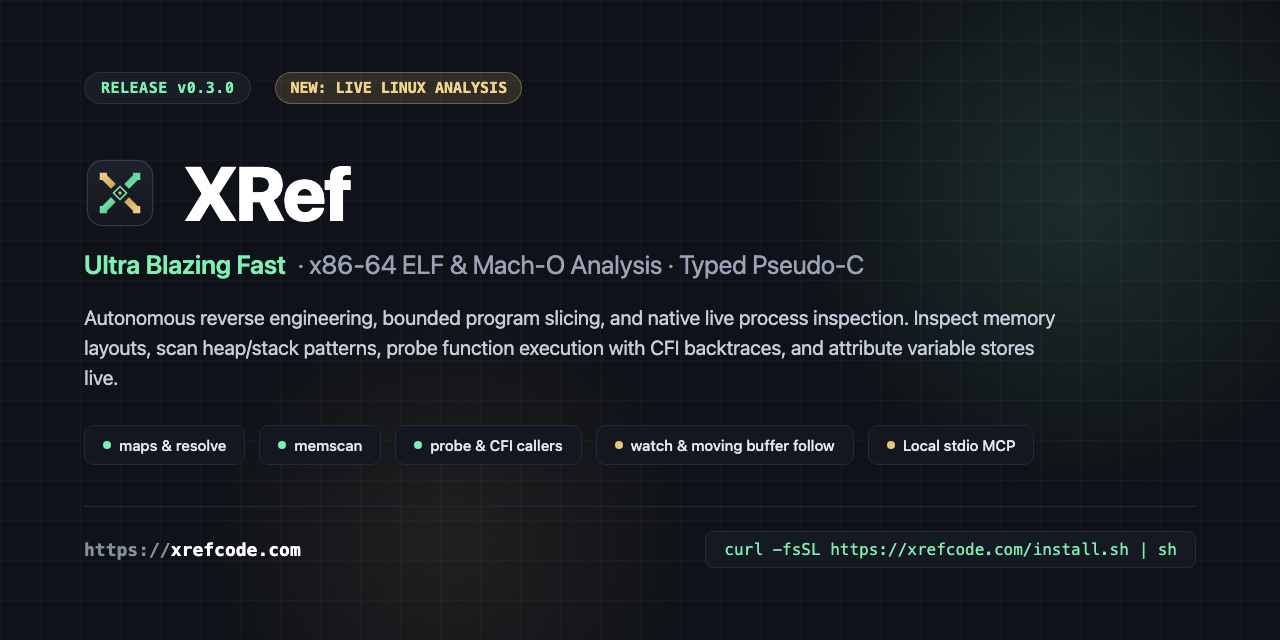
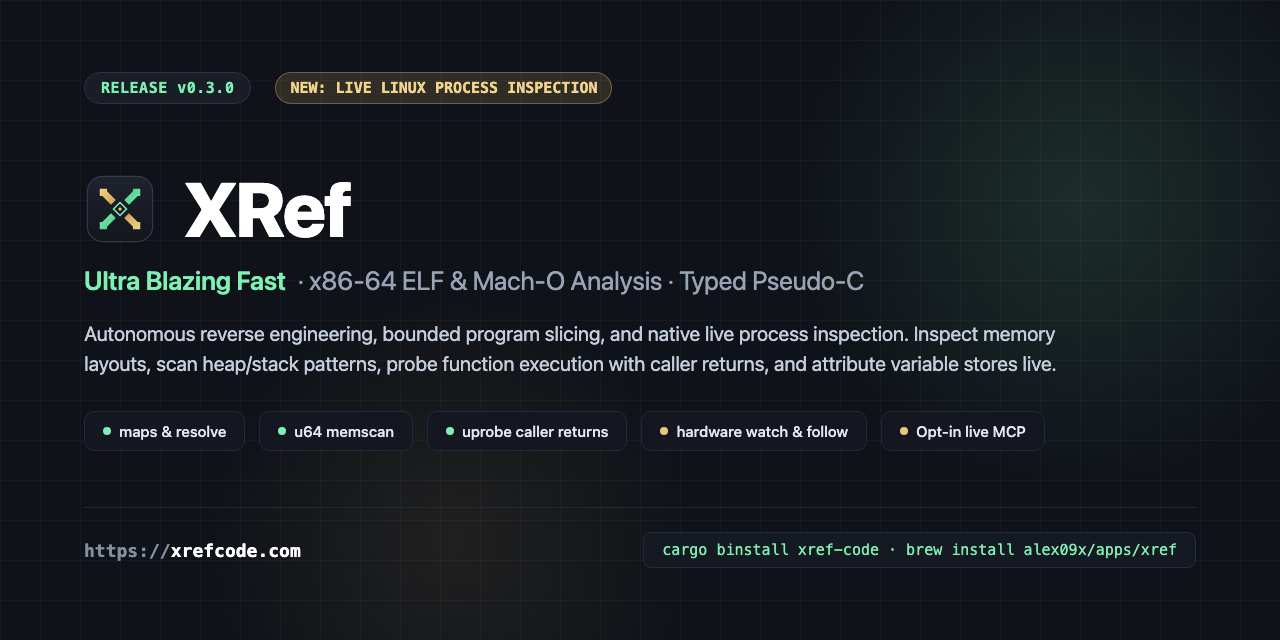
fix(release): address review findings on live capabilities, walkthrough status, OG, and translations

diff --git a/docs/live-walkthrough.html b/docs/live-walkthrough.html
@@ -39,10 +39,10 @@
     </header>
     <main class="wrap" id="top">
       <section class="hero">
-        <div class="eyebrow">New on main · not in v0.2.0 · Linux x86-64</div>
+        <div class="eyebrow">Available in v0.3.0 · not in v0.2.0 · Linux x86-64</div>
         <h1>Live Analysis: from a running process to the code that writes its memory.</h1>
         <p class="hero-sub">One stripped program, examined from outside while it runs: a value we know, where it sits in memory, which static function owns it, how often that code runs and who calls it, which instruction writes the field, and the same field after its buffer moves. Every command below ran exactly as shown, and the output under it is what that run printed.</p>
-        <div class="lw-status"><span class="pill pill-demo">UNRELEASED</span> <code>xref live</code> and the opt-in <code>xref_live</code> MCP tool are on <code>main</code> and will ship in the next release. The published v0.2.0 binaries do not contain them. Linux x86-64 only.</div>
+        <div class="lw-status"><span class="pill pill-demo">v0.3.0</span> <code>xref live</code> and the opt-in <code>xref_live</code> MCP tool are available starting with <code>v0.3.0</code>. Earlier published v0.2.0 binaries do not contain them. Linux x86-64 only.</div>
         <ol class="lw-toc">
           <li><a href="#step-target">Start a stripped program and give it some state</a></li>
           <li><a href="#step-maps">Confirm the process and the binary</a></li>

diff --git a/scripts/live_walkthrough/render.py b/scripts/live_walkthrough/render.py
@@ -103,10 +103,10 @@ def slug(title):
 def render_html(doc, secs):
     pre = lambda cls, text: f'<pre class="code-view {cls}">{html.escape(text)}</pre>'  # noqa: E731
     body = [HEAD, TOPBAR, '    <main class="wrap" id="top">', '      <section class="hero">',
-            '        <div class="eyebrow">New on main · not in v0.2.0 · Linux x86-64</div>',
+            '        <div class="eyebrow">Available in v0.3.0 · not in v0.2.0 · Linux x86-64</div>',
             "        <h1>Live Analysis: from a running process to the code that writes its memory.</h1>",
             f'        <p class="hero-sub">{inline_html(INTRO)}</p>',
-            f'        <div class="lw-status"><span class="pill pill-demo">UNRELEASED</span> {inline_html(STATUS)}</div>',
+            f'        <div class="lw-status"><span class="pill pill-demo">v0.3.0</span> {inline_html(STATUS)}</div>',
             '        <ol class="lw-toc">']
     body += [f'          <li><a href="#step-{s["id"]}">{inline_html(s["title"])}</a></li>' for s in secs]
     body += ["        </ol>", '        <div class="prov-box"><strong>Provenance.</strong><ul class="lw-prov">']

diff --git a/scripts/live_walkthrough/page.py b/scripts/live_walkthrough/page.py
@@ -7,8 +7,8 @@
 """Static text shared by the Markdown and HTML renderings of the walkthrough."""
 
 STATUS = (
-    "`xref live` and the opt-in `xref_live` MCP tool are on `main` and will ship in the next release. "
-    "The published v0.2.0 binaries do not contain them. Linux x86-64 only."
+    "`xref live` and the opt-in `xref_live` MCP tool are available starting with `v0.3.0`. "
+    "Earlier published v0.2.0 binaries do not contain them. Linux x86-64 only."
 )
 
 INTRO = (

diff --git a/readme/README.ru.md b/readme/README.ru.md
@@ -44,7 +44,7 @@
 
 Классические инструменты реверс-инжиниринга ориентированы на работу одного аналитика-человека, готового перед первым запросом ждать минуты, пока вся программа импортируется в базу данных. С бинарными файлами Rust, из которых удалены символы (stripped), ситуация ещё сложнее: символы удалены, строки представлены не завершающимися нулём срезами `(ptr, len)` в пулах `.rodata`, а паники при проверке границ массива дробят циклы на холодные рёбра графа управления, превращая вывод наивных декомпиляторов в нечитаемое спагетти из `goto`.
 
-**XRef Code** (`xref`) создан для быстрого итеративного анализа как исследователями, так и автономными ИИ-агентами:
+**XRef** (`xref`) создан для быстрого итеративного анализа как исследователями, так и автономными ИИ-агентами:
 
 - **Без предварительного индекса и устаревающего кэша.** При каждом запуске файл ELF отображается в память, точные диапазоны функций извлекаются из записей раскрутки `.eh_frame` (с автоматическим резервным вычислением интервалов), а сканирование функций выполняется параллельно через `rayon`.
 - **Живой анализ:** Только для Linux x86-64, один целевой исполняемый файл на сессию. Инструкции записи и вызывающие функции внутри разделяемых библиотек помечаются как находящиеся вне целевого исполняемого файла без указания статической функции или записанного значения. `probe` и `watch` требуют привилегированного доступа perf и добавляют прерывания (traps) в наблюдаемый процесс.
@@ -380,7 +380,7 @@ flowchart LR
 <a name="scope--limitations"></a>
 ## Область применения и ограничения
 
-- **Поддерживаемый вход:** исполняемые файлы и библиотеки `x86-64` ELF (`ET_EXEC`, `ET_DYN`). Начиная с v0.3.0 поддерживаются тонкие little-endian x86-64 Mach-O: executables, dylibs и bundles с DWARF unwind; см. [входы Mach-O](https://github.com/alex09x/xref/blob/main/docs/macho.md). Опубликованная v0.1.0 поддерживает только ELF. ARM64, PE, fat/universal и файлы только с compact unwind не поддерживаются.
+- **Поддерживаемый вход:** исполняемые файлы и библиотеки `x86-64` ELF (`ET_EXEC`, `ET_DYN`). Начиная с v0.2.0 поддерживаются тонкие little-endian x86-64 Mach-O: executables, dylibs и bundles с DWARF unwind; см. [входы Mach-O](https://github.com/alex09x/xref/blob/main/docs/macho.md). Опубликованная v0.1.0 поддерживает только ELF. ARM64, PE, fat/universal и файлы только с compact unwind не поддерживаются.
 - **Определение границ функций:** точные границы функций извлекаются из таблиц раскрутки стека `.eh_frame` (генерируются по умолчанию компиляторами `rustc`, `clang` и `gcc` под `x86-64` даже при запуске `strip --strip-all`), с переходом на эвристический расчёт интервалов по промежуткам и адресам вызовов при их отсутствии. Для бинарников, из которых секция `.eh_frame` удалена принудительно (`strip -R .eh_frame`), границы определяются эвристически.
 - **Статический псевдо-C и вывод смещений:** сигнатуры параметров (`arg_*`), выведенные типы указателей/целых чисел (`const void *`, `usize`, `unk64` и т. д.) и подсказки смещений флага `--fields` (`->f_<off>`) представляют собой консервативные статические реконструкции на основе использования в машинном коде, а не отладочные типы DWARF. Несмоделированные инструкции SIMD и системные команды сохраняются как явные комментарии на ассемблере вида `/* 0xaddr: ... */`, а не отбрасываются — обязательно перепроверяйте критически важные инварианты с помощью `xref asm`.
 
@@ -417,7 +417,7 @@ cargo test --workspace --locked
 }
 ```
 
-- Alexander Panasenko (2026). *XRef Code — Ultra Blazing Fast x86-64 ELF and Mach-O Analysis, Pseudo-C and Local MCP* (v0.3.0). Zenodo. https://doi.org/10.5281/zenodo.23902824 ([concept DOI: 10.5281/zenodo.23878789](https://doi.org/10.5281/zenodo.23878789))
+- Alexander Panasenko (2026). *XRef Code — Ultra Blazing Fast x86-64 ELF and Mach-O Analysis, Pseudo-C and Local MCP* (v0.2.0). Zenodo. https://doi.org/10.5281/zenodo.23902824 ([concept DOI: 10.5281/zenodo.23878789](https://doi.org/10.5281/zenodo.23878789))
 
 ---
 

diff --git a/docs/releases/v0.3.0.md b/docs/releases/v0.3.0.md
@@ -9,32 +9,36 @@ XRef.**
 XRef v0.3.0 introduces native live process inspection for running Linux x86-64
 targets, connecting runtime process state directly with static image analysis:
 
-- **L1 Maps & Resolve (`xref live --pid PID maps`, `xref live --pid PID resolve`)**:
-  Inspect live `/proc/PID/maps` memory layout, locate the main executable, heap,
-  thread stacks, VDSO/VVAR, and dynamically loaded modules. Resolve any runtime
-  virtual address to its backing file, mapped segment offset, static image VA,
-  and containing function with typed demangled symbol names.
-- **L2 Memory Scanner (`xref live --pid PID memscan`)**:
-  Scan readable process mappings for exact ASCII strings, hex byte sequences, or
-  pointer-aligned word references. Matches report containing memory region,
-  protection flags, offset, and dereferenced pointers.
-- **L3 Execution Probes (`xref live --pid PID probe`)**:
-  Attach lightweight execution breakpoints via `ptrace(2)` to target functions or
-  VAs. Capture execution hits with CPU register state (`rax`, `rdi`, `rsi`,
-  `rsp`, `rip`, flags) and exact DWARF/CFI-driven caller backtraces without
-  disturbing runtime execution.
-- **L4 Memory Watchpoints (`xref live --pid PID watch`)**:
-  Hardware-assisted and software-monitored variable watchpoints. Intercept writes
-  to target memory locations, compute before/after values, and attribute stores
-  to specific candidate instructions within the main executable. With `--follow`,
-  re-bind watchpoints automatically when target pointers or moving buffers shift
-  dynamically across allocations.
-- **Opt-in MCP Live Tooling**:
-  `xref_live` tool exposed via local stdio MCP server (`xref -b BIN mcp`) with
-  explicit safety defaults, bounded timeouts, and strict privilege checks.
+- **L1 Maps, Resolve & Memory Scanner**:
+  - `xref live maps --pid PID` (`xref -b APP live maps --pid PID`):
+    Inspect `/proc/<pid>/maps` layout, determine verified executable match, PIE slide,
+    heap, thread stacks, VDSO/VVAR, and mapped shared libraries.
+  - `xref live resolve --pid PID <LIVE_VA>`:
+    Translate runtime addresses to static image VA, containing function, and file
+    offset (for the selected main executable). Addresses inside shared libraries
+    are identified as outside the target executable.
+  - `xref live memscan --pid PID <U64_HEX_PATTERN>`:
+    Scan readable, writable private process memory (`rw-p`) for little-endian
+    `u64` values and classify neighbouring pointers (pointers to code, heap,
+    stack, or null).
+- **L2 Execution Probes (`xref live probe --pid PID <FN_OR_VA> [--callers]`)**:
+  Attach bounded uprobes via Linux perf events (or tracefs fallback; requires
+  `CAP_PERFMON` or root) to target functions or VAs. Reports hit counts, register
+  snapshots (`rax`, `rdi`, `rsi`, `rsp`, `rip`, flags), and one-hop caller
+  return-address evidence with explicit coverage limits. Does not pause or attach
+  via `ptrace` for breakpoints.
+- **L3 Hardware Watchpoints (`xref live watch --pid PID <ADDR> [--follow <BASE_ADDR>]`)**:
+  Monitor memory writes using x86-64 hardware debug registers (`DR0`–`DR3`).
+  Reports candidate writer instructions within the target executable, confidence
+  score, and before/after written values. With `--follow`, tracks buffer pointer
+  indirection across reallocations.
+- **L4 Opt-in MCP Live Tooling (`xref -b APP mcp --allow-live-pid PID`)**:
+  Exposes the `xref_live` tool over local stdio MCP only when explicitly pinned
+  to a verified PID via `--allow-live-pid`. Standard `xref -b APP mcp` remains
+  strictly read-only (`xref_query` only).
 - **Interactive Walkthrough**:
-  Detailed recorded walkthrough with verbatim Linux terminal sessions published
-  at [https://xrefcode.com/live-walkthrough](https://xrefcode.com/live-walkthrough).
+  Step-by-step recorded walkthrough on a stripped Linux fixture published at
+  [https://xrefcode.com/live-walkthrough](https://xrefcode.com/live-walkthrough).
 
 ## Public Product Branding
 
@@ -55,9 +59,9 @@ brew update && brew upgrade alex09x/apps/xref
 ```
 
 Release archives support Linux x86-64 (glibc >= 2.34) and macOS Apple Silicon.
-Live process inspection is currently supported on Linux x86-64 kernels with
-`ptrace` / `/proc` access permissions. Inspected processes continue normal
-execution after probes or watchpoints complete.
+Live process inspection is supported on Linux x86-64 kernels with `/proc` read
+access (for L1) and privileged perf access (root or `CAP_PERFMON` for L2/L3 probes
+and watchpoints). Inspected processes continue normal execution.
 
 ## Documentation and Provenance
 

diff --git a/readme/README.fr.md b/readme/README.fr.md
@@ -44,7 +44,7 @@ Analyse de binaires sans index préalable en Rust pur et sûr (`#![forbid(unsafe
 
 Les suites d'ingénierie inverse traditionnelles présupposent un analyste interactif disposé à attendre plusieurs minutes pour l'importation préalable d'une base de données du programme complet avant de poser la première question. Les binaires Rust dépouillés (*stripped*) aggravent cela : les symboles disparaissent, les chaînes deviennent des segments `(ptr, len)` non terminés par un NUL dans les zones `.rodata`, et les paniques de contrôle de limites fragmentent les boucles en embranchements froids qui transforment les décompilateurs naïfs en un enchevêtrement illisible de `goto`.
 
-**XRef Code** (`xref`) est conçu pour une investigation itérative rapide, aussi bien pour les ingénieurs en rétro-ingénierie que pour les agents d'IA autonomes :
+**XRef** (`xref`) est conçu pour une investigation itérative rapide, aussi bien pour les ingénieurs en rétro-ingénierie que pour les agents d'IA autonomes :
 
 - **Sans index préalable ni cache obsolète.** Chaque exécution mappe l'image ELF en mémoire, extrait les plages exactes de fonctions depuis les enregistrements de déroulement `.eh_frame` (avec repli automatique sur les intervalles) et scanne les fonctions en parallèle grâce à `rayon`.
 - **Analyse en direct :** Uniquement Linux x86-64, un seul exécutable cible par session. Les instructions d'écriture et les appelants au sein de bibliothèques partagées sont signalés comme extérieurs à l'exécutable cible sans fonction statique ni valeur écrite. `probe` et `watch` nécessitent un accès privilégié à perf et introduisent des interruptions (traps) dans le processus observé.
@@ -380,7 +380,7 @@ Temps d'exécution réels en ligne de commande pour une passe unique rapportés 
 <a name="scope--limitations"></a>
 ## Portée et limites
 
-- **Entrées prises en charge :** binaires et objets partagés ELF `x86-64` (`ET_EXEC`, `ET_DYN`). Depuis v0.3.0, xref accepte aussi les exécutables, dylibs et bundles Mach-O thin x86-64 little-endian avec DWARF unwind ; voir [entrées Mach-O](https://github.com/alex09x/xref/blob/main/docs/macho.md). La v0.1.0 publiée reste limitée à ELF. ARM64, PE, fat/universal et les entrées uniquement compact unwind ne sont pas pris en charge.
+- **Entrées prises en charge :** binaires et objets partagés ELF `x86-64` (`ET_EXEC`, `ET_DYN`). Depuis v0.2.0, xref accepte aussi les exécutables, dylibs et bundles Mach-O thin x86-64 little-endian avec DWARF unwind ; voir [entrées Mach-O](https://github.com/alex09x/xref/blob/main/docs/macho.md). La v0.1.0 publiée reste limitée à ELF. ARM64, PE, fat/universal et les entrées uniquement compact unwind ne sont pas pris en charge.
 - **Détection des délimitations de fonctions :** Les plages exactes de fonctions proviennent des tables de déroulement `.eh_frame` (émises par défaut par `rustc`, `clang` et `gcc` sur `x86-64` même après `strip --strip-all`), avec un mécanisme de secours par intervalle/cible d'appel en cas d'absence d'entrées de déroulement. Les binaires dépourvus de `.eh_frame` (`strip -R .eh_frame`) reposent sur des frontières d'intervalles heuristiques.
 - **Pseudo-C statique et inférence de décalages :** Les signatures de paramètres (`arg_*`), les types inférés de pointeurs/entiers (`const void *`, `usize`, `unk64`, etc.) et les indices de décalage de `--fields` (`->f_<off>`) sont des reconstitutions statiques prudentes déduites de l'utilisation en code machine, et non des types sources DWARF. Les instructions SIMD/système non modélisées sont conservées en ligne sous forme de commentaires d'assemblage explicites `/* 0xaddr: ... */` au lieu d'être ignorées silencieusement — contre-vérifiez toujours les invariants critiques avec `xref asm`.
 
@@ -417,7 +417,7 @@ L'entrée ci-dessous correspond au dernier instantané archivé (`v0.2.0`, publi
 }
 ```
 
-- Alexander Panasenko (2026). *XRef Code — Ultra Blazing Fast x86-64 ELF and Mach-O Analysis, Pseudo-C and Local MCP* (v0.3.0). Zenodo. https://doi.org/10.5281/zenodo.23902824 ([concept DOI: 10.5281/zenodo.23878789](https://doi.org/10.5281/zenodo.23878789))
+- Alexander Panasenko (2026). *XRef Code — Ultra Blazing Fast x86-64 ELF and Mach-O Analysis, Pseudo-C and Local MCP* (v0.2.0). Zenodo. https://doi.org/10.5281/zenodo.23902824 ([concept DOI: 10.5281/zenodo.23878789](https://doi.org/10.5281/zenodo.23878789))
 
 ---
 

diff --git a/readme/README.es.md b/readme/README.es.md
@@ -44,7 +44,7 @@ Análisis de binarios sin indexación previa en Rust seguro puro (`#![forbid(uns
 
 Las suites tradicionales de ingeniería inversa asumen la presencia de un analista interactivo dispuesto a esperar minutos a que se complete una importación previa de la base de datos de todo el programa antes de hacer la primera pregunta. Los binarios de Rust sin símbolos (*stripped*) empeoran esto: los símbolos desaparecen, las cadenas son fragmentos `(ptr, len)` no terminados en NUL alojados en bloques de `.rodata`, y los pánicos por comprobación de límites fracturan los bucles en ramificaciones frías que convierten a los descompiladores ingenuos en un espagueti ilegible de `goto`.
 
-**XRef Code** (`xref`) está diseñado para una investigación iterativa y rápida, tanto por especialistas en ingeniería inversa como por agentes autónomos de IA:
+**XRef** (`xref`) está diseñado para una investigación iterativa y rápida, tanto por especialistas en ingeniería inversa como por agentes autónomos de IA:
 
 - **Sin índice previo y sin cachés obsoletas.** Cada invocación mapea la imagen ELF en memoria, extrae los rangos exactos de funciones a partir de los registros de desenrollado de pila `.eh_frame` (con repliegue automático basado en tramos) y escanea las funciones en paralelo mediante `rayon`.
 - **Análisis en vivo:** Solo Linux x86-64, un ejecutable objetivo por sesión. Los escritores y llamadores dentro de bibliotecas compartidas se reportan como externos al ejecutable objetivo sin función estática ni valor escrito. `probe` y `watch` requieren acceso privilegiado perf y agregan trampas al proceso observado.
@@ -380,7 +380,7 @@ Tiempos transcurridos reales de ejecución en CLI en una sola pasada reportados 
 <a name="scope--limitations"></a>
 ## Alcance y limitaciones
 
-- **Entrada compatible:** binarios y objetos compartidos ELF `x86-64` (`ET_EXEC`, `ET_DYN`). A partir de v0.3.0, xref también admite ejecutables, dylibs y bundles Mach-O thin x86-64 little-endian con DWARF unwind; véase [entradas Mach-O](https://github.com/alex09x/xref/blob/main/docs/macho.md). La v0.1.0 publicada solo admite ELF. ARM64, PE, fat/universal y entradas solo con compact unwind no están admitidos.
+- **Entrada compatible:** binarios y objetos compartidos ELF `x86-64` (`ET_EXEC`, `ET_DYN`). A partir de v0.2.0, xref también admite ejecutables, dylibs y bundles Mach-O thin x86-64 little-endian con DWARF unwind; véase [entradas Mach-O](https://github.com/alex09x/xref/blob/main/docs/macho.md). La v0.1.0 publicada solo admite ELF. ARM64, PE, fat/universal y entradas solo con compact unwind no están admitidos.
 - **Detección de límites de funciones:** Los rangos exactos de funciones se derivan de las tablas de desenrollado `.eh_frame` (emitidas por defecto por `rustc`, `clang` y `gcc` en `x86-64` incluso tras `strip --strip-all`), recurriendo a un mecanismo de reserva por huecos/destinos de llamadas cuando no hay entradas de desenrollado. Los binarios desprovistos de `.eh_frame` (`strip -R .eh_frame`) dependen de límites heurísticos basados en intervalos.
 - **Pseudo-C estático e inferencia de desplazamientos:** Las firmas de parámetros (`arg_*`), los tipos de punteros/enteros inferidos (`const void *`, `usize`, `unk64`, etc.) y las sugerencias de desplazamiento de `--fields` (`->f_<off>`) son reconstrucciones estáticas conservadoras a partir de los usos en código máquina, no tipos de origen DWARF. Las instrucciones del sistema/SIMD no modeladas se preservan en línea como comentarios explícitos de ensamblador `/* 0xaddr: ... */` en lugar de omitirse silenciosamente; compruebe siempre las invariantes críticas con `xref asm`.
 
@@ -417,7 +417,7 @@ Los metadatos legibles por máquina están en [`CITATION.cff`](../CITATION.cff).
 }
 ```
 
-- Alexander Panasenko (2026). *XRef Code — Ultra Blazing Fast x86-64 ELF and Mach-O Analysis, Pseudo-C and Local MCP* (v0.3.0). Zenodo. https://doi.org/10.5281/zenodo.23902824 ([concept DOI: 10.5281/zenodo.23878789](https://doi.org/10.5281/zenodo.23878789))
+- Alexander Panasenko (2026). *XRef Code — Ultra Blazing Fast x86-64 ELF and Mach-O Analysis, Pseudo-C and Local MCP* (v0.2.0). Zenodo. https://doi.org/10.5281/zenodo.23902824 ([concept DOI: 10.5281/zenodo.23878789](https://doi.org/10.5281/zenodo.23878789))
 
 ---
 

diff --git a/readme/README.pt-BR.md b/readme/README.pt-BR.md
@@ -44,7 +44,7 @@ Análise binária com índice zero em Rust seguro puro (`#![forbid(unsafe_code)]
 
 As suítes tradicionais de engenharia reversa assumem um analista interativo disposto a esperar minutos pela importação prévia de um banco de dados do programa inteiro antes de fazer a primeira pergunta. Binários Rust despidos de símbolos (*stripped*) pioram isso: os símbolos desaparecem, strings tornam-se fatias `(ptr, len)` sem terminação NUL em pools de `.rodata`, e pânicos de verificação de limites despedaçam laços em ramificações frias que transformam descompiladores ingênuos em um espaguete ilegível de `goto`.
 
-O **XRef Code** (`xref`) foi desenvolvido para uma investigação iterativa rápida tanto por engenheiros reversos quanto por agentes autônomos de IA:
+O **XRef** (`xref`) foi desenvolvido para uma investigação iterativa rápida tanto por engenheiros reversos quanto por agentes autônomos de IA:
 
 - **Sem índice prévio nem cache desatualizado.** Cada invocação mapeia a imagem ELF em memória, extrai intervalos exatos de funções a partir dos registros de desenrolamento `.eh_frame` (com fallback automático por intervalos) e varre funções em paralelo via `rayon`.
 - **Análise ao vivo:** Apenas Linux x86-64, um executável alvo por sessão. Gravadores e chamadores dentro de bibliotecas compartilhadas são relatados como externos ao executável alvo sem função estática ou valor gravado. `probe` e `watch` exigem acesso privilegiado a perf e introduzem armadilhas (traps) no processo observado.
@@ -380,7 +380,7 @@ Tempos de execução decorridos de comando único da CLI relatados pelo `xref 0.
 <a name="scope--limitations"></a>
 ## Escopo e Limitações
 
-- **Entrada suportada:** binários e objetos compartilhados ELF `x86-64` (`ET_EXEC`, `ET_DYN`). A partir da v0.3.0, xref também suporta executáveis, dylibs e bundles Mach-O thin x86-64 little-endian com DWARF unwind; veja [entradas Mach-O](https://github.com/alex09x/xref/blob/main/docs/macho.md). A v0.1.0 publicada suporta apenas ELF. ARM64, PE, fat/universal e entradas somente com compact unwind não são suportados.
+- **Entrada suportada:** binários e objetos compartilhados ELF `x86-64` (`ET_EXEC`, `ET_DYN`). A partir da v0.2.0, xref também suporta executáveis, dylibs e bundles Mach-O thin x86-64 little-endian com DWARF unwind; veja [entradas Mach-O](https://github.com/alex09x/xref/blob/main/docs/macho.md). A v0.1.0 publicada suporta apenas ELF. ARM64, PE, fat/universal e entradas somente com compact unwind não são suportados.
 - **Descoberta de limites de funções:** Intervalos exatos de funções vêm das tabelas de desenrolamento `.eh_frame` (emitidas por padrão por `rustc`, `clang` e `gcc` em `x86-64`, mesmo após `strip --strip-all`), com fallback por lacuna/alvo de chamada quando entradas de desenrolamento estiverem ausentes. Binários sem `.eh_frame` (`strip -R .eh_frame`) dependem de limites heurísticos baseados em intervalos.
 - **Pseudo-C estático & inferência de deslocamentos:** Assinaturas de parâmetros (`arg_*`), tipos inferidos de ponteiros/inteiros (`const void *`, `usize`, `unk64`, etc.) e dicas de deslocamento de `--fields` (`->f_<off>`) são reconstruções estáticas conservadoras baseadas em usos no código de máquina, não tipos DWARF originais. Instruções SIMD/sistema não modeladas são preservadas inline como comentários explícitos em assembly `/* 0xaddr: ... */` em vez de serem silenciosamente omitidas — sempre verifique invariantes críticas com `xref asm`.
 
@@ -417,7 +417,7 @@ A entrada abaixo corresponde à versão arquivada mais recente (`v0.2.0`, public
 }
 ```
 
-- Alexander Panasenko (2026). *XRef Code — Ultra Blazing Fast x86-64 ELF and Mach-O Analysis, Pseudo-C and Local MCP* (v0.3.0). Zenodo. https://doi.org/10.5281/zenodo.23902824 ([concept DOI: 10.5281/zenodo.23878789](https://doi.org/10.5281/zenodo.23878789))
+- Alexander Panasenko (2026). *XRef Code — Ultra Blazing Fast x86-64 ELF and Mach-O Analysis, Pseudo-C and Local MCP* (v0.2.0). Zenodo. https://doi.org/10.5281/zenodo.23902824 ([concept DOI: 10.5281/zenodo.23878789](https://doi.org/10.5281/zenodo.23878789))
 
 ---
 

diff --git a/readme/README.de.md b/readme/README.de.md
@@ -44,7 +44,7 @@ Binäranalyse ohne Vorindizierung in reinem, sicherem Rust (`#![forbid(unsafe_co
 
 Klassische Reverse-Engineering-Suites setzen einen interaktiven Analysten voraus, der bereit ist, vor der ersten Frage minutenlang auf den vorab durchgeführten Import der gesamten Binärdatei in eine Datenbank zu warten. Bei gestrippten Rust-Binärdateien verschärft sich das Problem: Symbole fehlen, Zeichenketten sind nicht nullterminierte `(ptr, len)`-Slices in `.rodata`-Pools, und Bounds-Check-Panics zerlegen Schleifen in kalte Pfade, die einfache Decompiler in unleserliches `goto`-Spaghetti verwandeln.
 
-**XRef Code** (`xref`) wurde für die schnelle iterative Analyse sowohl durch Reverse Engineers als auch durch autonome KI-Agenten entwickelt:
+**XRef** (`xref`) wurde für die schnelle iterative Analyse sowohl durch Reverse Engineers als auch durch autonome KI-Agenten entwickelt:
 
 - **Ohne vorab angelegten Index und ohne veraltete Caches.** Jeder Aufruf mappt das ELF-Abbild im Arbeitsspeicher, extrahiert exakte Funktionsbereiche aus `.eh_frame`-Unwind-Datensätzen (mit automatischem Intervall-Fallback) und durchsucht Funktionen parallel via `rayon`.
 - **Live-Analyse:** Nur Linux x86-64, eine Zielbinärdatei pro Sitzung. Schreiber und Aufrufer in Shared Libraries werden als außerhalb der Zielbinärdatei liegend gemeldet (ohne statische Funktion oder geschriebenen Wert). `probe` und `watch` erfordern privilegierten perf-Zugriff und fügen Traps in den beobachteten Prozess ein.
@@ -380,7 +380,7 @@ Reale CLI-Laufzeiten laut Ausgabe von `xref 0.0.5` (`stderr`) auf einem `AMD Ryz
 <a name="scope--limitations"></a>
 ## Anwendungsbereich & Einschränkungen
 
-- **Unterstützte Eingaben:** `x86-64`-ELF-Binärdateien und Shared Objects (`ET_EXEC`, `ET_DYN`). Ab v0.3.0 werden auch unterstützt: dünne Little-Endian-x86-64-Mach-O-Programme, dylibs und bundles mit DWARF-Unwind-Daten; siehe [Mach-O-Eingaben](https://github.com/alex09x/xref/blob/main/docs/macho.md). Die veröffentlichte v0.1.0 unterstützt nur ELF. ARM64, PE, fat/universal und Eingaben ausschließlich mit compact unwind werden nicht unterstützt.
+- **Unterstützte Eingaben:** `x86-64`-ELF-Binärdateien und Shared Objects (`ET_EXEC`, `ET_DYN`). Ab v0.2.0 werden auch unterstützt: dünne Little-Endian-x86-64-Mach-O-Programme, dylibs und bundles mit DWARF-Unwind-Daten; siehe [Mach-O-Eingaben](https://github.com/alex09x/xref/blob/main/docs/macho.md). Die veröffentlichte v0.1.0 unterstützt nur ELF. ARM64, PE, fat/universal und Eingaben ausschließlich mit compact unwind werden nicht unterstützt.
 - **Ermittlung von Funktionsgrenzen:** Exakte Funktionsbereiche stammen aus `.eh_frame`-Unwind-Tabellen (standardmäßig erzeugt von `rustc`, `clang` und `gcc` auf `x86-64`, selbst nach `strip --strip-all`), mit Fallback auf Lücken/Aufrufziele bei fehlenden Unwind-Einträgen. Binärdateien ohne `.eh_frame` (`strip -R .eh_frame`) stützen sich auf heuristische Grenzen.
 - **Statisches Pseudo-C & Offset-Inferenz:** Parametersignaturen (`arg_*`), abgeleitete Zeiger-/Ganzzahltypen (`const void *`, `usize`, `unk64` usw.) und Feld-Offset-Hinweise mit `--fields` (`->f_<off>`) sind konservative statische Rekonstruktionen aus Maschinencode-Verwendungen und keine DWARF-Quelltypen. Nicht modellierte SIMD-/Systeminstruktionen bleiben als explizite Assembler-Kommentare `/* 0xaddr: ... */` inline erhalten, anstatt verworfen zu werden — kritische Invarianten sollten stets mit `xref asm` gegenprüft werden.
 
@@ -417,7 +417,7 @@ Maschinenlesbare Software-Metadaten stehen in [`CITATION.cff`](../CITATION.cff).
 }
 ```
 
-- Alexander Panasenko (2026). *XRef Code — Ultra Blazing Fast x86-64 ELF and Mach-O Analysis, Pseudo-C and Local MCP* (v0.3.0). Zenodo. https://doi.org/10.5281/zenodo.23902824 ([concept DOI: 10.5281/zenodo.23878789](https://doi.org/10.5281/zenodo.23878789))
+- Alexander Panasenko (2026). *XRef Code — Ultra Blazing Fast x86-64 ELF and Mach-O Analysis, Pseudo-C and Local MCP* (v0.2.0). Zenodo. https://doi.org/10.5281/zenodo.23902824 ([concept DOI: 10.5281/zenodo.23878789](https://doi.org/10.5281/zenodo.23878789))
 
 ---
 

diff --git a/readme/README.ar.md b/readme/README.ar.md
@@ -438,7 +438,7 @@ flowchart LR
 <a name="scope--limitations"></a>
 ## النطاق والقيود
 
-- **المدخلات المدعومة:** ملفات ELF الثنائية والمكتبات المشتركة `x86-64` (`ET_EXEC` و `ET_DYN`). يدعم الإصدار v0.3.0 وما بعده أيضًا ملفات Mach-O التنفيذية وdylib وbundle من نوع thin little-endian x86-64 مع DWARF unwind؛ راجع [مدخلات Mach-O](https://github.com/alex09x/xref/blob/main/docs/macho.md). الإصدار المنشور v0.1.0 يدعم ELF فقط. لا تُدعم ARM64 أو PE أو fat/universal أو الملفات التي تحتوي على compact unwind فقط.
+- **المدخلات المدعومة:** ملفات ELF الثنائية والمكتبات المشتركة `x86-64` (`ET_EXEC` و `ET_DYN`). يدعم الإصدار v0.2.0 وما بعده أيضًا ملفات Mach-O التنفيذية وdylib وbundle من نوع thin little-endian x86-64 مع DWARF unwind؛ راجع [مدخلات Mach-O](https://github.com/alex09x/xref/blob/main/docs/macho.md). الإصدار المنشور v0.1.0 يدعم ELF فقط. لا تُدعم ARM64 أو PE أو fat/universal أو الملفات التي تحتوي على compact unwind فقط.
 - **تحديد حدود الدوال:** تُستخرج نطاقات الدوال الدقيقة من جداول تتبع المكدس `.eh_frame` (المولدة افتراضيًا بواسطة `rustc` و `clang` و `gcc` على معماريات `x86-64` حتى بعد تنفيذ `strip --strip-all`)، مع الرجوع التلقائي إلى الفجوات وعناوين أهداف الاستدعاء عند غياب سجلات التتبع. وتعتمد الملفات الثنائية التي حُذفت منها سجلات `.eh_frame` تمامًا (`strip -R .eh_frame`) على حدود النطاقات الاستدلالية.
 - **شبه كود C الثابت واستنتاج الإزاحات:** تمثل تواقيع المعاملات (`arg_*`)، والأنواع المستنتجة للمؤشرات والأعداد الصحيحة (`const void *` و `usize` و `unk64` وغيرها)، وتلميحات إزاحة الحقول مع المعامل `--fields` (`->f_<off>`) عمليات إعادة بناء استاتيكية متحفظة مشتقة من استخدامات كود الآلة، وليست أنواع DWARF الأصلية المصدرية. كما يُحتفظ بتعليمات SIMD وتعليمات النظام غير المنمذجة بشكل صريح كتعليقات تجميعية `/* 0xaddr: ... */` مدمجة بدلاً من إسقاطها بصمت — تحقق دائمًا من الفرضيات الأساسية عبر `xref asm`.
 
@@ -481,7 +481,7 @@ cargo test --workspace --locked
 
 </div>
 
-- Alexander Panasenko (2026). *XRef Code — Ultra Blazing Fast x86-64 ELF and Mach-O Analysis, Pseudo-C and Local MCP* (v0.3.0). Zenodo. https://doi.org/10.5281/zenodo.23902824 ([معرّف DOI الجامع لجميع الإصدارات: 10.5281/zenodo.23878789](https://doi.org/10.5281/zenodo.23878789))
+- Alexander Panasenko (2026). *XRef Code — Ultra Blazing Fast x86-64 ELF and Mach-O Analysis, Pseudo-C and Local MCP* (v0.2.0). Zenodo. https://doi.org/10.5281/zenodo.23902824 ([معرّف DOI الجامع لجميع الإصدارات: 10.5281/zenodo.23878789](https://doi.org/10.5281/zenodo.23878789))
 
 ---
 

diff --git a/readme/README.ja.md b/readme/README.ja.md
@@ -380,7 +380,7 @@ flowchart LR
 <a name="scope--limitations"></a>
 ## 制約事項
 
-- **対応入力:** `x86-64` ELF バイナリと共有オブジェクト（`ET_EXEC`、`ET_DYN`）。v0.3.0 以降では、DWARF unwind 情報を持つ thin リトルエンディアン x86-64 Mach-O の実行ファイル、dylib、bundle にも対応します。[Mach-O 入力](https://github.com/alex09x/xref/blob/main/docs/macho.md)を参照してください。公開済み v0.1.0 は ELF のみです。ARM64、PE、fat/universal、compact unwind のみの入力は未対応です。
+- **対応入力:** `x86-64` ELF バイナリと共有オブジェクト（`ET_EXEC`、`ET_DYN`）。v0.2.0 以降では、DWARF unwind 情報を持つ thin リトルエンディアン x86-64 Mach-O の実行ファイル、dylib、bundle にも対応します。[Mach-O 入力](https://github.com/alex09x/xref/blob/main/docs/macho.md)を参照してください。公開済み v0.1.0 は ELF のみです。ARM64、PE、fat/universal、compact unwind のみの入力は未対応です。
 - **関数境界の検出:** 正確な関数スパンは `.eh_frame` アンワインドテーブルから取得されます（`x86-64` では `strip --strip-all` 後であっても `rustc`、`clang`、`gcc` によってデフォルトで生成されます）。アンワインドエントリが存在しない場合は、ギャップ／呼び出しターゲットに基づくスパンフォールバックが適用されます。`.eh_frame` が完全に除去されたバイナリ（`strip -R .eh_frame`）ではヒューリスティックなスパン境界判定に依存します。
 - **静的疑似 C およびオフセット推論:** パラメータシグネチャ（`arg_*`）、推論されたポインタ／整数型（`const void *`, `usize`, `unk64` など）、および `--fields` によるオフセットヒント（`->f_<off>`）は、マシン語の使用パターンから保守的に静的再構築されたものであり、DWARF ソース型情報ではありません。モデル化されていない SIMD／システム命令は、黙って破棄されることなく、明示的な `/* 0xaddr: ... */` アセンブリコメントとしてインラインに保持されます。重要な不変条件は常に `xref asm` でクロスチェックしてください。
 
@@ -417,7 +417,7 @@ cargo test --workspace --locked
 }
 ```
 
-- Alexander Panasenko (2026). *XRef Code — Ultra Blazing Fast x86-64 ELF and Mach-O Analysis, Pseudo-C and Local MCP* (v0.3.0). Zenodo. https://doi.org/10.5281/zenodo.23902824 ([concept DOI: 10.5281/zenodo.23878789](https://doi.org/10.5281/zenodo.23878789))
+- Alexander Panasenko (2026). *XRef Code — Ultra Blazing Fast x86-64 ELF and Mach-O Analysis, Pseudo-C and Local MCP* (v0.2.0). Zenodo. https://doi.org/10.5281/zenodo.23902824 ([concept DOI: 10.5281/zenodo.23878789](https://doi.org/10.5281/zenodo.23878789))
 
 ---
 

diff --git a/readme/README.ko.md b/readme/README.ko.md
@@ -380,7 +380,7 @@ flowchart LR
 <a name="scope--limitations"></a>
 ## 적용 범위 및 한계
 
-- **지원 입력:** `x86-64` ELF 바이너리와 공유 객체(`ET_EXEC`, `ET_DYN`). v0.3.0부터 DWARF unwind 정보가 있는 thin little-endian x86-64 Mach-O 실행 파일, dylib, bundle도 지원합니다. [Mach-O 입력](https://github.com/alex09x/xref/blob/main/docs/macho.md)을 참조하세요. 배포된 v0.1.0은 ELF만 지원합니다. ARM64, PE, fat/universal 및 compact unwind만 있는 입력은 지원하지 않습니다.
+- **지원 입력:** `x86-64` ELF 바이너리와 공유 객체(`ET_EXEC`, `ET_DYN`). v0.2.0부터 DWARF unwind 정보가 있는 thin little-endian x86-64 Mach-O 실행 파일, dylib, bundle도 지원합니다. [Mach-O 입력](https://github.com/alex09x/xref/blob/main/docs/macho.md)을 참조하세요. 배포된 v0.1.0은 ELF만 지원합니다. ARM64, PE, fat/universal 및 compact unwind만 있는 입력은 지원하지 않습니다.
 - **함수 경계 탐색:** 정확한 함수 범위는 `.eh_frame` 언와인드 테이블에서 가져옵니다(`x86-64`에서는 `strip --strip-all` 이후에도 `rustc`, `clang`, `gcc`가 기본적으로 생성함). 언와인드 항목이 없는 경우 갭/호출 대상 스팬 대체 기능이 작동합니다. `.eh_frame`까지 제거된 바이너리(`strip -R .eh_frame`)는 휴리스틱 스팬 경계에 의존합니다.
 - **정적 의사 C 및 오프셋 추론:** 매개변수 서명(`arg_*`), 추론된 포인터/정수 타입(`const void *`, `usize`, `unk64` 등) 및 `--fields` 오프셋 힌트(`->f_<off>`)는 DWARF 소스 타입이 아니라 기계어 명령어 사용 패턴을 기반으로 보수적으로 정적 재구성한 것입니다. 모델링되지 않은 SIMD/시스템 명령어는 자동으로 무시되지 않고 명시적인 `/* 0xaddr: ... */` 어셈블리 주석으로 인라인 보존됩니다. 중요한 불변 조건은 항상 `xref asm`으로 교차 확인하십시오.
 
@@ -417,7 +417,7 @@ cargo test --workspace --locked
 }
 ```
 
-- Alexander Panasenko (2026). *XRef Code — Ultra Blazing Fast x86-64 ELF and Mach-O Analysis, Pseudo-C and Local MCP* (v0.3.0). Zenodo. https://doi.org/10.5281/zenodo.23902824 ([concept DOI: 10.5281/zenodo.23878789](https://doi.org/10.5281/zenodo.23878789))
+- Alexander Panasenko (2026). *XRef Code — Ultra Blazing Fast x86-64 ELF and Mach-O Analysis, Pseudo-C and Local MCP* (v0.2.0). Zenodo. https://doi.org/10.5281/zenodo.23902824 ([concept DOI: 10.5281/zenodo.23878789](https://doi.org/10.5281/zenodo.23878789))
 
 ---
 
